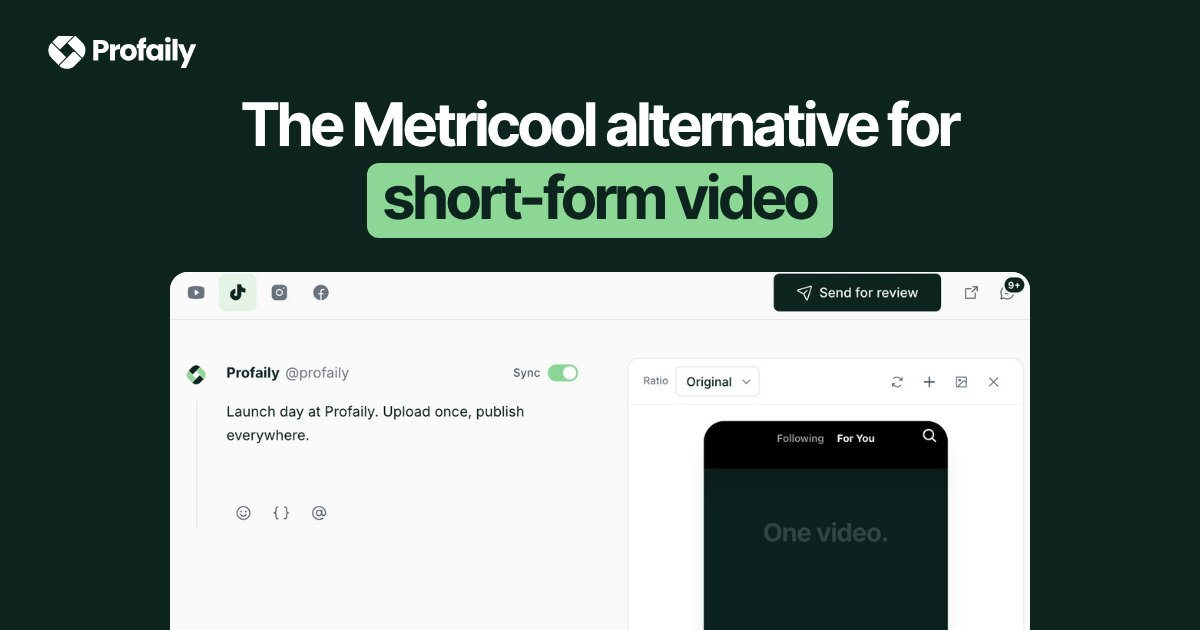
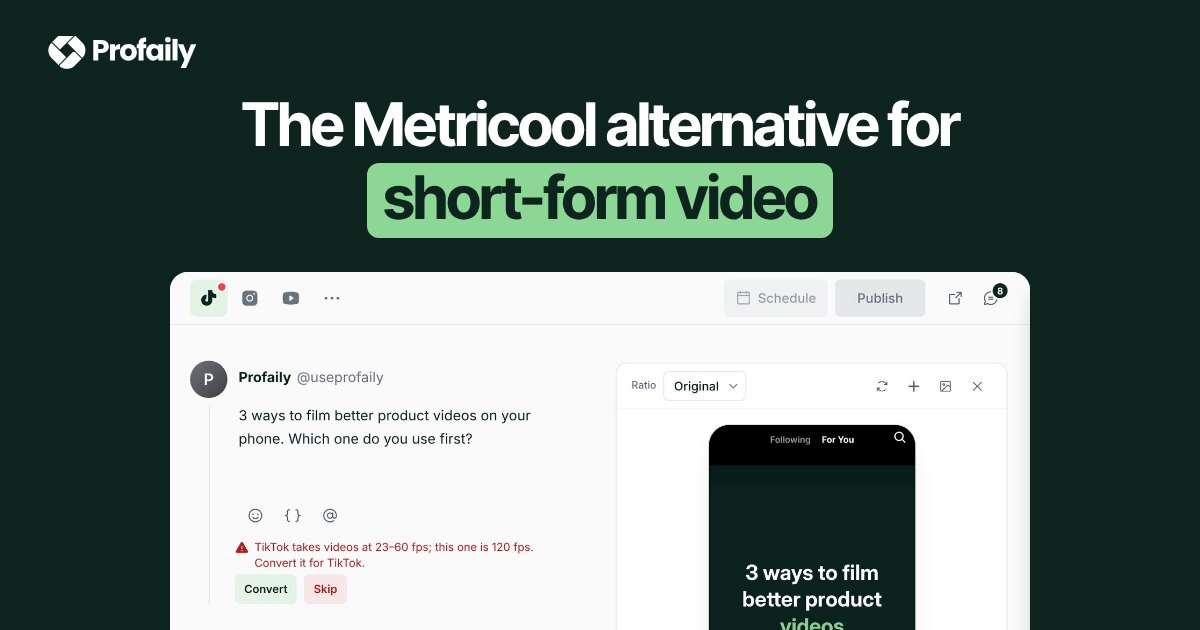
Compare: Profaily vs Metricool at /compare/metricool-alternative
A post can set url: "/compare/<name>"; it then lives there, /blog/<slug> redirects to it,
and cards, canonical, JSON-LD and the sitemap use that address. Adds the /compare hub and a
footer link, a cover without the unlaunched Facebook icon, and article template copy that no
longer promises audience conversations.

Claude-Session: https://claude.ai/code/session_01FbQD3rzbdDEJZzTtc3cXFC

diff --git a/components/templates/ArticlePage.tsx b/components/templates/ArticlePage.tsx
@@ -13,7 +13,10 @@ import { ORIGIN } from "@/lib/metadata";
 import { links } from "@/lib/links";
 import { channels } from "@/content/channels";
 
-export const articleTitle = (post: PostContent) => `${post.title} | Profaily Blog`;
+/** A comparison page lives under /compare, every other article under /blog. */
+export const isComparison = (post: PostContent) => post.href.startsWith("/compare/");
+
+export const articleTitle = (post: PostContent) => `${post.title} | ${isComparison(post) ? "Profaily" : "Profaily Blog"}`;
 
 /** The post's cover, made by `yarn cover <slug>` (see scripts/cover.ts). */
 export const postCover = (post: PostContent) => post.coverImage;
@@ -37,7 +40,7 @@ export function PostCard({ post, heading = "h3" }: { post: PostContent; heading?
   const H = heading;
   return (
     <article className="blog-card" data-category={post.category.toLowerCase()}>
-      <a className="bl-card" href={`/blog/${post.slug}`}>
+      <a className="bl-card" href={post.href}>
         <img src={postCover(post)} alt="" width={1200} height={630} loading="lazy" decoding="async" />
         <div className="bl-card-copy">
           <H>{post.title}</H>
@@ -60,7 +63,7 @@ export function ArticlePage({ post }: { post: PostContent }) {
   return (
     <PageShell>
       <OgUrl
-        path={`/blog/${post.slug}`}
+        path={post.href}
         type="article"
         title={articleTitle(post)}
         description={post.description}
@@ -75,7 +78,7 @@ export function ArticlePage({ post }: { post: PostContent }) {
           image: [ORIGIN + cover],
           datePublished: post.datePublished,
           dateModified: post.datePublished,
-          mainEntityOfPage: `${ORIGIN}/blog/${post.slug}`,
+          mainEntityOfPage: `${ORIGIN}${post.href}`,
           author: post.author ? { "@type": "Person", name: post.author } : { "@type": "Organization", name: "Profaily Editorial" },
           publisher: { "@type": "Organization", name: "Profaily" },
         }}
@@ -84,7 +87,7 @@ export function ArticlePage({ post }: { post: PostContent }) {
       <main className="pg-blog pg-article">
         <header className="page-hero has-grid ar-hero">
           <div className="wrap ar-head">
-            <Crumbs items={[{ href: "/blog", label: "Blog" }, { label: post.category }]} />
+            <Crumbs items={isComparison(post) ? [{ href: "/compare", label: "Compare" }, { label: post.title.split(": ").pop() ?? post.title }] : [{ href: "/blog", label: "Blog" }, { label: post.category }]} />
             <h1>{post.title}</h1>
             <p className="lead">{post.description}</p>
             <PostMeta post={post} byline />
@@ -102,7 +105,7 @@ export function ArticlePage({ post }: { post: PostContent }) {
 
             <section className="ar-next" aria-labelledby="ar-next-title">
               <h2 id="ar-next-title">Put the workflow to work</h2>
-              <p>Connect video planning, publishing, audience response, and follow-up in one short-form video operation.</p>
+              <p>Upload one video, give each platform its own text, and see each one marked Ready before it posts.</p>
               <a className="more-link" href={post.cta.href}>{post.cta.label} <Arrow /></a>
             </section>
 
@@ -128,7 +131,7 @@ export function ArticlePage({ post }: { post: PostContent }) {
               <div className="ar-trial-card">
               <img src="/assets/profaily-mark-white.svg" alt="" width={32} height={32} className="ar-trial-mark" />
               <h2 id="ar-trial-title">Try Profaily free for 14 days</h2>
-              <p>Plan and publish one video across {channels}, then follow publishing and audience conversations from one workspace.</p>
+              <p>Plan and publish one video across {channels}, then follow each platform's status from one workspace.</p>
               <a className="btn btn-primary btn-block" href={links.register}>Start 14-day free trial <Arrow /></a>
               <a className="more-link" href="/features">Explore features <Arrow /></a>
               </div>
@@ -152,7 +155,7 @@ export function ArticlePage({ post }: { post: PostContent }) {
 
         <CtaBand
           heading="Run video marketing from one place"
-          lede={`Plan and publish across ${channels}. Keep each channel’s details in view, then follow publishing and audience conversations from one workspace.`}
+          lede={`Plan and publish across ${channels}. Keep each channel’s details in view, then follow each platform’s status from one workspace.`}
           secondary={{ href: "/features", label: "Explore features" }}
         />
       </main>

diff --git a/app/(site)/compare/page.tsx b/app/(site)/compare/page.tsx
@@ -1,0 +1,54 @@
+import "@/app/styles/blog.css";
+import { PageShell } from "@/components/layout/PageShell";
+import { CtaBand } from "@/components/sections/shared/CtaBand";
+import { PageHero } from "@/components/sections/shared/PageHero";
+import { PostCard, postCover } from "@/components/templates/ArticlePage";
+import { OgUrl } from "@/components/ui/OgUrl";
+import { postList } from "@/content/posts";
+import { ORIGIN, pageMetadata } from "@/lib/metadata";
+
+const meta = {
+  title: "Profaily vs other schedulers | Profaily",
+  description: "Profaily compared with other social media schedulers for TikTok, Instagram Reels and YouTube Shorts, with each tool's own pages cited and dated.",
+  path: "/compare",
+};
+
+export const metadata = pageMetadata(meta);
+
+/** Every comparison page: posts whose frontmatter sets url: "/compare/<slug>". */
+const comparisons = postList.filter((p) => p.href.startsWith("/compare/"));
+
+export default function Page() {
+  return (
+    <PageShell>
+      <OgUrl
+        path={meta.path}
+        type="website"
+        title={meta.title}
+        description={meta.description}
+        image={comparisons[0] ? `${ORIGIN}${postCover(comparisons[0])}` : undefined}
+      />
+      <main className="pg-blog">
+        <PageHero
+          solo
+          crumbs={[{ label: "Compare" }]}
+          title="Profaily vs other schedulers"
+          lede="How Profaily compares with the tools you may already use for short-form video. Every claim about another tool comes from its own pages, with the date we checked."
+          secondary={{ href: "/features", label: "Explore features" }}
+        />
+        <section className="section tight bl-index" aria-label="Comparisons">
+          <div className="wrap">
+            <div className="grid-3 bl-grid">
+              {comparisons.map((post) => <PostCard post={post} heading="h2" key={post.slug} />)}
+            </div>
+          </div>
+        </section>
+        <CtaBand
+          heading="Try it with your own videos"
+          lede="Upload one video, give each platform its own text, and see each one marked Ready before it posts."
+          secondary={{ href: "/features", label: "Explore all features" }}
+        />
+      </main>
+    </PageShell>
+  );
+}

diff --git a/content/posts/load.ts b/content/posts/load.ts
@@ -27,6 +27,8 @@ import type { PostContent } from "./types";
  *   cover          optional. The words on the cover, one phrase in [brackets] goes on the mint block (default: title)
  *   coverShot      optional. The app capture in public/assets/app shown on the cover (default: the composer)
  *   coverImage     written by `yarn cover <slug>`, which draws the cover from the two fields above. Never by hand
+ *   url            optional. "/compare/<name>" puts the article at that address instead of /blog/<slug> (a comparison
+ *                  page). /blog/<slug> then redirects there. Images still live in /assets/blog/<slug>/
  *   draft          optional. true hides the post from the production build; `yarn dev` still shows it.
  *                  A draft may go without its cover until `yarn cover <slug>` has drawn it
  *
@@ -86,6 +88,15 @@ function readTime(body: string): string {
   return `${Math.max(1, Math.ceil(words / WORDS_PER_MINUTE))} min read`;
 }
 
+/** Where the article lives: /blog/<slug>, or the "/compare/<name>" its frontmatter `url` names. */
+function hrefOf(file: string, slug: string, url: unknown): string {
+  if (url === undefined) return `/blog/${slug}`;
+  if (typeof url !== "string" || !/^\/compare\/[a-z0-9]+(?:-[a-z0-9]+)*$/.test(url)) {
+    throw new PostError(file, `"url" must look like /compare/metricool-alternative, got ${JSON.stringify(url)}`);
+  }
+  return url;
+}
+
 function links(file: string, data: Record<string, unknown>, key: string): { href: string; label: string }[] {
   const v = data[key];
   if (v === undefined || v === null) return [];
@@ -142,6 +153,7 @@ export function loadPost(slug: string): PostContent {
 
   return {
     slug,
+    href: hrefOf(file, slug, data.url),
     category,
     title: text(file, data, "title"),
     description: text(file, data, "description"),

diff --git a/app/sitemap.ts b/app/sitemap.ts
@@ -15,13 +15,16 @@ export default function sitemap(): MetadataRoute.Sitemap {
     lastModified: r.path === "/blog" && newest > r.lastModified ? newest : r.lastModified,
   }));
   const posts = postList
-    .filter((p) => !listed.has(`/blog/${p.slug}`))
-    .map((p) => ({ url: `https://useprofaily.com/blog/${p.slug}`, lastModified: p.datePublished }));
+    .filter((p) => !listed.has(p.href))
+    .map((p) => ({ url: `https://useprofaily.com${p.href}`, lastModified: p.datePublished }));
+  const compare = postList.some((p) => p.href.startsWith("/compare/")) && !listed.has("/compare")
+    ? [{ url: "https://useprofaily.com/compare", lastModified: postList.filter((p) => p.href.startsWith("/compare/")).reduce((d, p) => (p.datePublished > d ? p.datePublished : d), "") }]
+    : [];
   const help = [
     ...(listed.has("/help") ? [] : [{ url: "https://useprofaily.com/help", lastModified: helpList.reduce((d, p) => (p.updated > d ? p.updated : d), "") }]),
     ...helpList
       .filter((p) => !listed.has(`/help/${p.slug}`))
       .map((p) => ({ url: `https://useprofaily.com/help/${p.slug}`, lastModified: p.updated })),
   ].filter((h) => h.lastModified);
-  return [...pages, ...posts, ...help];
+  return [...pages, ...compare, ...posts, ...help];
 }

diff --git a/app/(site)/compare/[slug]/page.tsx b/app/(site)/compare/[slug]/page.tsx
@@ -1,0 +1,33 @@
+import { notFound } from "next/navigation";
+import { ArticlePage, articleTitle } from "@/components/templates/ArticlePage";
+import { postList } from "@/content/posts";
+import { pageMetadata } from "@/lib/metadata";
+
+type Params = { params: Promise<{ slug: string }> };
+
+export const dynamicParams = false;
+
+/** Comparison pages are posts whose frontmatter sets url: "/compare/<slug>" (see content/posts/load.ts). */
+const comparisons = Object.fromEntries(
+  postList.filter((p) => p.href.startsWith("/compare/")).map((p) => [p.href.slice("/compare/".length), p]),
+);
+
+function find(slug: string) {
+  if (!Object.hasOwn(comparisons, slug)) notFound();
+  return comparisons[slug];
+}
+
+export function generateStaticParams() {
+  return Object.keys(comparisons).map((slug) => ({ slug }));
+}
+
+export async function generateMetadata({ params }: Params) {
+  const { slug } = await params;
+  const post = find(slug);
+  return pageMetadata({ title: articleTitle(post), description: post.description, path: post.href });
+}
+
+export default async function Page({ params }: Params) {
+  const { slug } = await params;
+  return <ArticlePage post={find(slug)} />;
+}

diff --git a/app/(site)/blog/[slug]/page.tsx b/app/(site)/blog/[slug]/page.tsx
@@ -1,4 +1,4 @@
-import { notFound } from "next/navigation";
+import { notFound, permanentRedirect } from "next/navigation";
 import { ArticlePage, articleTitle } from "@/components/templates/ArticlePage";
 import { posts } from "@/content/posts";
 import { pageMetadata } from "@/lib/metadata";
@@ -19,10 +19,13 @@ export function generateStaticParams() {
 export async function generateMetadata({ params }: Params) {
   const { slug } = await params;
   const post = find(slug);
-  return pageMetadata({ title: articleTitle(post), description: post.description, path: `/blog/${slug}` });
+  return pageMetadata({ title: articleTitle(post), description: post.description, path: post.href });
 }
 
 export default async function Page({ params }: Params) {
   const { slug } = await params;
-  return <ArticlePage post={find(slug)} />;
+  const post = find(slug);
+  // A comparison lives under /compare; its /blog address only points there.
+  if (post.href !== `/blog/${slug}`) permanentRedirect(post.href);
+  return <ArticlePage post={post} />;
 }

diff --git a/app/(site)/blog/page.tsx b/app/(site)/blog/page.tsx
@@ -48,7 +48,7 @@ export default function Page() {
         {!empty && (<>
         <section className="section tight bl-featured" aria-label="Featured guide">
           <div className="wrap">
-            <a className="bl-feat" href={`/blog/${featured.slug}`}>
+            <a className="bl-feat" href={featured.href}>
               <img src={postCover(featured)} alt="" width={1200} height={630} loading="eager" />
               <div className="bl-feat-copy">
                 <h2>{featured.title}</h2>

diff --git a/content/nav.tsx b/content/nav.tsx
@@ -89,7 +89,7 @@ export const footerGroups: { heading: string; links: { href: string; label: stri
   { heading: "Made for", links: madeForLinks.map((l) => ({ href: l.href, label: l.title })) },
   {
     heading: "Resources",
-    links: [{ href: "/blog", label: "Blog" }, { href: "/help", label: "Help center" }],
+    links: [{ href: "/blog", label: "Blog" }, { href: "/help", label: "Help center" }, { href: "/compare", label: "Compare" }],
   },
   {
     heading: "Company",

diff --git a/content/posts/types.ts b/content/posts/types.ts
@@ -7,6 +7,8 @@
  */
 export type PostContent = {
   slug: string;
+  /** The article's address: /blog/<slug>, or /compare/<name> when its frontmatter sets `url`. */
+  href: string;
   category: string;
   title: string;
   description: string;

diff --git a/posts/metricool-alternative-for-short-form-video.md b/posts/metricool-alternative-for-short-form-video.md
@@ -2,8 +2,9 @@
 category: "Comparisons"
 title: "Metricool Alternative for Short-Form Video: Profaily vs Metricool"
 description: "Looking for a Metricool alternative for TikTok, Reels and Shorts? What Metricool's own help center says can go wrong with video, and how Profaily handles it."
-datePublished: "2026-11-20"
+datePublished: "2026-11-19"
 author: "Solomon Eseme"
+url: "/compare/metricool-alternative"
 sourcesChecked: "November 19, 2026"
 cta:
   href: "/pricing"
@@ -44,7 +45,8 @@ faq:
   - q: "Can I use Metricool and Profaily together?"
     a: "Yes. You can keep Metricool for analytics, the inbox and your other networks, and publish your short videos from Profaily."
 cover: "The Metricool alternative for [short-form video]"
-coverImage: "/assets/blog-featured-metricool-alternative-for-short-form-video.jpg?v=17929b5e"
+coverImage: "/assets/blog-featured-metricool-alternative-for-short-form-video.jpg?v=514ae055"
+coverShot: "cover-tiktok-convert.jpg"
 ---
 
 If you schedule short videos for clients, this has probably happened to you. Or it will.
